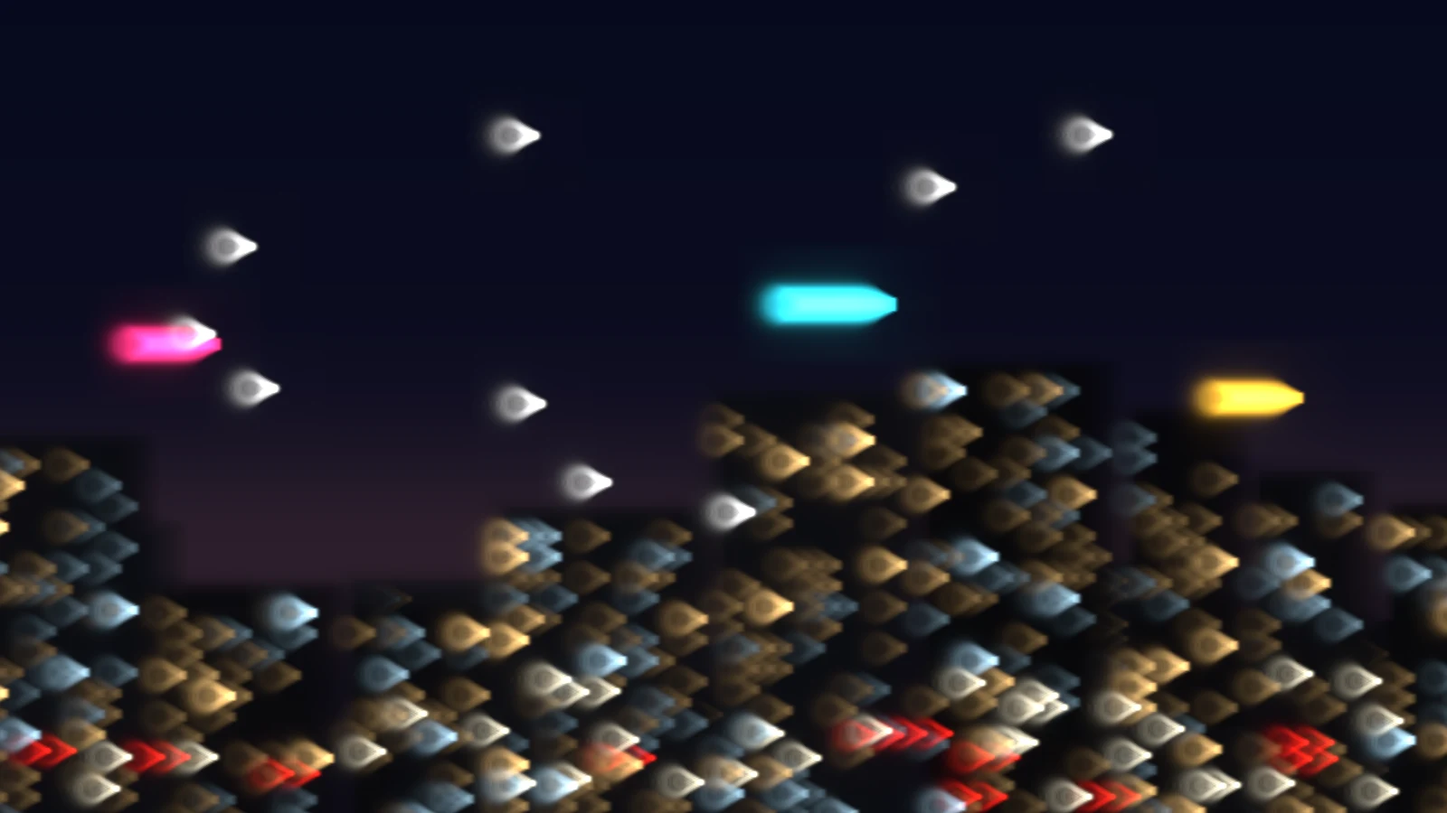
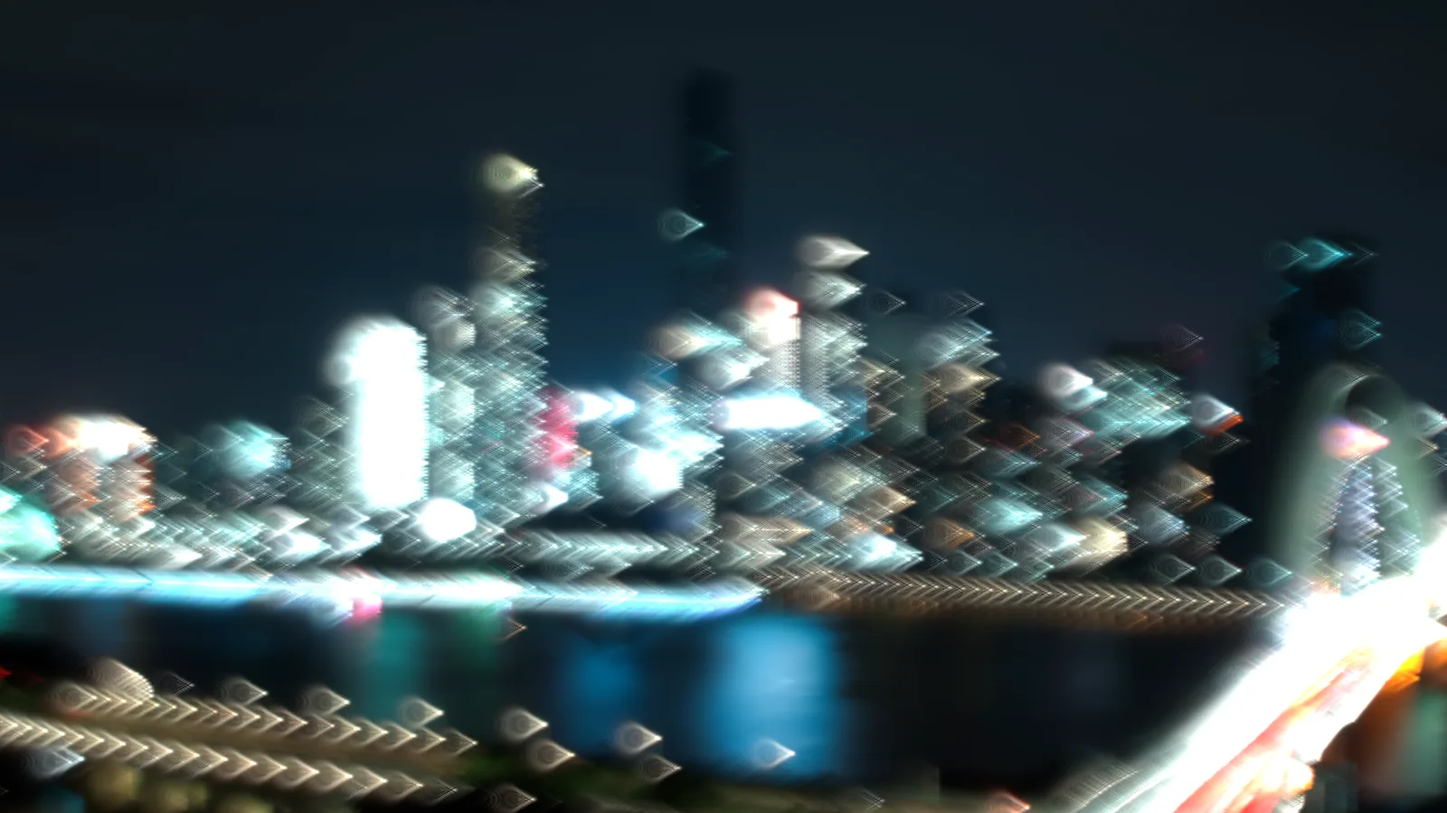
作例の素材を実写の写真に替える

diff --git a/faq.html b/faq.html
@@ -24,7 +24,7 @@
 <meta name="twitter:description" content="波動光学のよくある質問です。変化が小さい、光条が出ない、四角い縁が見える、重い、通信の有無、ライセンスなどに答えます。">
 <meta name="twitter:image" content="https://ymm4.routersys.com/YMM4-WaveOptics/WaveOptics.png">
 <meta name="twitter:image:alt" content="波動光学 for YMM4のサムネイル。キャラクターと、説明文が描かれている">
-<script type="application/ld+json">{"@context":"https://schema.org","@graph":[{"@type":"Person","@id":"https://ymm4.routersys.com/YMM4-WaveOptics/#author","name":"routersys","url":"https://github.com/routersys"},{"@type":"BreadcrumbList","itemListElement":[{"@type":"ListItem","position":1,"name":"ホーム","item":"https://ymm4.routersys.com/YMM4-WaveOptics/"},{"@type":"ListItem","position":2,"name":"よくある質問","item":"https://ymm4.routersys.com/YMM4-WaveOptics/faq.html"}]},{"@type":"FAQPage","mainEntity":[{"@type":"Question","name":"付けても映像がほとんど変わらないのはなぜですか。","acceptedAnswer":{"@type":"Answer","text":"デフォルトのF値8、画素ピッチ4μm、波長550nmでは、明るい円盤の半径が約1.3画素しかないためです。デフォーカスの絶対値かF値を上げるか、画素ピッチを下げると、にじみが大きくなります。目安は設定の選び方にあります。"}},{"@type":"Question","name":"光源から光条が出ないのはなぜですか。","acceptedAnswer":{"@type":"Answer","text":"光条が出るのは、開口形状を正多角形にしたときです。円形の開口では、光条の代わりに輪が出ます。さらに素材は8ビットで、光源の画素の値は1.0で頭打ちになるため、光条の光はそのままでは1階調にも届きません。線形光をオンにして、ハイライト強度を上げてください。F値16、画素ピッチ2μm、強さ30倍から試すと見えてきます。"}},{"@type":"Question","name":"ハイライトを上げると映像全体が明るくなるのはなぜですか。","acceptedAnswer":{"@type":"Answer","text":"ハイライトは、明るい画素の光を指定した倍率で足す処理で、出力の光の総量が増えるためです。利得を下げて明るさを合わせてください。"}},{"@type":"Question","name":"小さな明るい点が暗く細くなるのはなぜですか。","acceptedAnswer":{"@type":"Answer","text":"出力を8ビットに丸めるときに、広がった光の小さな値が0に切り捨てられるためです。ディザをオンにすると、画素の位置だけで決まる値を足してから丸めるので、光の総量が保たれます。"}},{"@type":"Question","name":"光源の周りに薄い四角い縁が見えるのはなぜですか。","acceptedAnswer":{"@type":"Answer","text":"にじみがカーネル半径の外まで広がり、四角いカーネルの縁で切り取られています。カーネル半径を上げてください。上限の63画素でも切れるときは、F値を下げるか画素ピッチを上げるか、デフォーカスや収差の値を小さくして、広がりを抑えます。"}},{"@type":"Question","name":"素材の外側にもにじみが広がるのはなぜですか。","acceptedAnswer":{"@type":"Answer","text":"畳み込みは不透明度にも掛かるので、素材の縁の外にも半透明のにじみが広がります。出力の範囲は、素材の範囲と畳み込む範囲を合わせたものです。適用量が0%のときは素材の範囲のままです。"}},{"@type":"Question","name":"エフェクトを付けても入力映像のまま表示されるのはなぜですか。","acceptedAnswer":{"@type":"Answer","text":"素材の長辺が上限を超えているか、中央遮蔽で開口がふさがっている可能性があります。計算領域の長辺は8192画素が上限で、素材の長辺の上限は、カーネル半径が16画素以下なら8160画素、63画素なら8064画素です。中央遮蔽で光の通る標本が1つも無くなる設定でも、入力映像を表示します。品質を上げると起きにくくなります。素材のすべての画素が透明なときも同じです。"}},{"@type":"Question","name":"動作が重いときはどうすればよいですか。","acceptedAnswer":{"@type":"Answer","text":"畳み込む範囲が大きいほど計算は重くなります。動画素材のように素材が毎フレーム変わる場合や、光学系、開口、波面収差をアニメーションさせる場合は、毎フレーム計算し直すのでさらに重くなります。カーネル半径を必要な分だけにする、品質を下げるなどで軽くできます。詳しくは設定の選び方の重いときにあります。"}},{"@type":"Question","name":"GPUで計算されているかを知る方法はありますか。","acceptedAnswer":{"@type":"Answer","text":"設定の画面に、どちらの経路で計算しているかを示す項目はありません。経路は自動で決まります。GPUを使えない環境、ソフトウェア アダプターを使っている環境、必要なGPUメモリがアダプターの容量の4分の1を超える場合、GPUの異常が起きた場合は、CPUで計算します。それ以外はGPUで計算します。"}},{"@type":"Question","name":"GPUとCPUで結果は同じですか。","acceptedAnswer":{"@type":"Answer","text":"1ビット単位では一致しません。差は、検証した範囲で最大2階調でした。2つの経路が8ビットに丸める分の、最大1階調を含みます。GPUの異常でCPUに切り替わったときも、同じ設定で結果がわずかに変わります。"}},{"@type":"Question","name":"対応しているOSと必要なものは何ですか。","acceptedAnswer":{"@type":"Answer","text":"Windows 10 バージョン2004（ビルド19041）以降、またはWindows 11（64bit）で、.NET 10.0を使います。YMM4は最新版を推奨します。GPUは、Direct3D 12と、Direct3D 11・12間の共有テクスチャおよび共有フェンスを使えるものを推奨します。使えない場合はCPUで計算します。"}},{"@type":"Question","name":"色収差や虹色のにじみは出ますか。","acceptedAnswer":{"@type":"Answer","text":"出ません。計算は単色光のフラウンホーファー回折に限り、赤、緑、青の成分と不透明度を同じ点像分布関数で畳み込みます。波長を変えても、映像の色は変わりません。"}},{"@type":"Question","name":"奥行きに応じたボケになりますか。","acceptedAnswer":{"@type":"Answer","text":"なりません。点像分布関数は画面のどこでも同じで、像の位置や素材の奥行きで変わるにじみは扱いません。"}},{"@type":"Question","name":"同じ設定なら、いつも同じ結果になりますか。","acceptedAnswer":{"@type":"Answer","text":"計算は決定論的で、時間も乱数も使いません。GPU、ドライバー、CPU、Windows、.NETの組が同じで、同じ経路で計算するなら、同じ素材と同じ設定から常に同じ結果になります。"}},{"@type":"Question","name":"AviUtl向けのEXO出力に対応していますか。","acceptedAnswer":{"@type":"Answer","text":"対応していません。"}},{"@type":"Question","name":"通信は行われますか。","acceptedAnswer":{"@type":"Answer","text":"行われます。エフェクトを最初に生成したときに、新しい正式版があるかを、YMM4の実行中に一度だけ確認します。想定していない例外が起きたときと、GPUの異常でCPUの経路に切り替えたときは、その内容を開発者へ自動で送信します。同意の確認はありません。映像の中身とプロジェクトの内容は送りません。送る内容は確かめ方のページに表で載せています。"}},{"@type":"Question","name":"ライセンスは何ですか。","acceptedAnswer":{"@type":"Answer","text":"MITライセンスで公開しています。条件はリポジトリのLICENSE.txtに書かれています。同梱しているComputeWeaveもMITライセンスです。"}},{"@type":"Question","name":"不具合はどこへ報告すればよいですか。","acceptedAnswer":{"@type":"Answer","text":"GitHubのIssuesへお願いします。想定していない例外とGPUの異常は、自動でも送信されます。"}}],"url":"https://ymm4.routersys.com/YMM4-WaveOptics/faq.html","inLanguage":"ja"}]}</script>
+<script type="application/ld+json">{"@context":"https://schema.org","@graph":[{"@type":"Person","@id":"https://ymm4.routersys.com/YMM4-WaveOptics/#author","name":"routersys","url":"https://github.com/routersys"},{"@type":"BreadcrumbList","itemListElement":[{"@type":"ListItem","position":1,"name":"ホーム","item":"https://ymm4.routersys.com/YMM4-WaveOptics/"},{"@type":"ListItem","position":2,"name":"よくある質問","item":"https://ymm4.routersys.com/YMM4-WaveOptics/faq.html"}]},{"@type":"FAQPage","mainEntity":[{"@type":"Question","name":"付けても映像がほとんど変わらないのはなぜですか。","acceptedAnswer":{"@type":"Answer","text":"デフォルトのF値8、画素ピッチ4μm、波長550nmでは、明るい円盤の半径が約1.3画素しかないためです。デフォーカスの絶対値かF値を上げるか、画素ピッチを下げると、にじみが大きくなります。目安は設定の選び方にあります。"}},{"@type":"Question","name":"光源から光条が出ないのはなぜですか。","acceptedAnswer":{"@type":"Answer","text":"光条が出るのは、開口形状を正多角形にしたときです。円形の開口では、光条の代わりに輪が出ます。さらに素材は8ビットで、光源の画素の値は1.0で頭打ちになるため、光条の光はそのままでは1階調にも届きません。線形光をオンにして、ハイライト強度を上げてください。F値16、画素ピッチ4μm、ハイライト閾値97%、ハイライト強度25倍から試すと見えてきます。"}},{"@type":"Question","name":"ハイライトを上げると映像全体が明るくなるのはなぜですか。","acceptedAnswer":{"@type":"Answer","text":"ハイライトは、明るい画素の光を指定した倍率で足す処理で、出力の光の総量が増えるためです。利得を下げて明るさを合わせてください。"}},{"@type":"Question","name":"小さな明るい点が暗く細くなるのはなぜですか。","acceptedAnswer":{"@type":"Answer","text":"出力を8ビットに丸めるときに、広がった光の小さな値が0に切り捨てられるためです。ディザをオンにすると、画素の位置だけで決まる値を足してから丸めるので、光の総量が保たれます。"}},{"@type":"Question","name":"光源の周りに薄い四角い縁が見えるのはなぜですか。","acceptedAnswer":{"@type":"Answer","text":"にじみがカーネル半径の外まで広がり、四角いカーネルの縁で切り取られています。カーネル半径を上げてください。上限の63画素でも切れるときは、F値を下げるか画素ピッチを上げるか、デフォーカスや収差の値を小さくして、広がりを抑えます。"}},{"@type":"Question","name":"素材の外側にもにじみが広がるのはなぜですか。","acceptedAnswer":{"@type":"Answer","text":"畳み込みは不透明度にも掛かるので、素材の縁の外にも半透明のにじみが広がります。出力の範囲は、素材の範囲と畳み込む範囲を合わせたものです。適用量が0%のときは素材の範囲のままです。"}},{"@type":"Question","name":"エフェクトを付けても入力映像のまま表示されるのはなぜですか。","acceptedAnswer":{"@type":"Answer","text":"素材の長辺が上限を超えているか、中央遮蔽で開口がふさがっている可能性があります。計算領域の長辺は8192画素が上限で、素材の長辺の上限は、カーネル半径が16画素以下なら8160画素、63画素なら8064画素です。中央遮蔽で光の通る標本が1つも無くなる設定でも、入力映像を表示します。品質を上げると起きにくくなります。素材のすべての画素が透明なときも同じです。"}},{"@type":"Question","name":"動作が重いときはどうすればよいですか。","acceptedAnswer":{"@type":"Answer","text":"畳み込む範囲が大きいほど計算は重くなります。動画素材のように素材が毎フレーム変わる場合や、光学系、開口、波面収差をアニメーションさせる場合は、毎フレーム計算し直すのでさらに重くなります。カーネル半径を必要な分だけにする、品質を下げるなどで軽くできます。詳しくは設定の選び方の重いときにあります。"}},{"@type":"Question","name":"GPUで計算されているかを知る方法はありますか。","acceptedAnswer":{"@type":"Answer","text":"設定の画面に、どちらの経路で計算しているかを示す項目はありません。経路は自動で決まります。GPUを使えない環境、ソフトウェア アダプターを使っている環境、必要なGPUメモリがアダプターの容量の4分の1を超える場合、GPUの異常が起きた場合は、CPUで計算します。それ以外はGPUで計算します。"}},{"@type":"Question","name":"GPUとCPUで結果は同じですか。","acceptedAnswer":{"@type":"Answer","text":"1ビット単位では一致しません。差は、検証した範囲で最大2階調でした。2つの経路が8ビットに丸める分の、最大1階調を含みます。GPUの異常でCPUに切り替わったときも、同じ設定で結果がわずかに変わります。"}},{"@type":"Question","name":"対応しているOSと必要なものは何ですか。","acceptedAnswer":{"@type":"Answer","text":"Windows 10 バージョン2004（ビルド19041）以降、またはWindows 11（64bit）で、.NET 10.0を使います。YMM4は最新版を推奨します。GPUは、Direct3D 12と、Direct3D 11・12間の共有テクスチャおよび共有フェンスを使えるものを推奨します。使えない場合はCPUで計算します。"}},{"@type":"Question","name":"色収差や虹色のにじみは出ますか。","acceptedAnswer":{"@type":"Answer","text":"出ません。計算は単色光のフラウンホーファー回折に限り、赤、緑、青の成分と不透明度を同じ点像分布関数で畳み込みます。波長を変えても、映像の色は変わりません。"}},{"@type":"Question","name":"奥行きに応じたボケになりますか。","acceptedAnswer":{"@type":"Answer","text":"なりません。点像分布関数は画面のどこでも同じで、像の位置や素材の奥行きで変わるにじみは扱いません。"}},{"@type":"Question","name":"同じ設定なら、いつも同じ結果になりますか。","acceptedAnswer":{"@type":"Answer","text":"計算は決定論的で、時間も乱数も使いません。GPU、ドライバー、CPU、Windows、.NETの組が同じで、同じ経路で計算するなら、同じ素材と同じ設定から常に同じ結果になります。"}},{"@type":"Question","name":"AviUtl向けのEXO出力に対応していますか。","acceptedAnswer":{"@type":"Answer","text":"対応していません。"}},{"@type":"Question","name":"通信は行われますか。","acceptedAnswer":{"@type":"Answer","text":"行われます。エフェクトを最初に生成したときに、新しい正式版があるかを、YMM4の実行中に一度だけ確認します。想定していない例外が起きたときと、GPUの異常でCPUの経路に切り替えたときは、その内容を開発者へ自動で送信します。同意の確認はありません。映像の中身とプロジェクトの内容は送りません。送る内容は確かめ方のページに表で載せています。"}},{"@type":"Question","name":"ライセンスは何ですか。","acceptedAnswer":{"@type":"Answer","text":"MITライセンスで公開しています。条件はリポジトリのLICENSE.txtに書かれています。同梱しているComputeWeaveもMITライセンスです。"}},{"@type":"Question","name":"不具合はどこへ報告すればよいですか。","acceptedAnswer":{"@type":"Answer","text":"GitHubのIssuesへお願いします。想定していない例外とGPUの異常は、自動でも送信されます。"}}],"url":"https://ymm4.routersys.com/YMM4-WaveOptics/faq.html","inLanguage":"ja"}]}</script>
 <style>:root{color-scheme:light dark;--kinari:#fbfaf5;--shironeri:#f3f3f2;--haijiro:#e9e4d4;--shiraai:#c1e4e9;--karasuba:#180614;--sumi:#595857;--ai:#165e83;--konjou:#192f60;--kodaimurasaki:#895b8a;--ginnezumi:#afafb0;--yamabuki:#f8b500;--nureba:#000b00;--tetsuonando:#455765;--byakugun:#83ccd2;--fuji:#bbbcde;--outer:light-dark(var(--konjou),var(--nureba));--frame:light-dark(var(--ai),var(--nureba));--frametext:var(--kinari);--framelink:light-dark(var(--shiraai),var(--byakugun));--edge:light-dark(var(--ai),var(--sumi));--panel:light-dark(var(--kinari),var(--nureba));--text:light-dark(var(--karasuba),var(--kinari));--muted:light-dark(var(--sumi),var(--ginnezumi));--line:light-dark(var(--ginnezumi),var(--sumi));--bar:light-dark(var(--shironeri),var(--tetsuonando));--bartext:light-dark(var(--konjou),var(--kinari));--head:light-dark(var(--haijiro),var(--tetsuonando));--link:light-dark(var(--ai),var(--byakugun));--visited:light-dark(var(--kodaimurasaki),var(--fuji))}*{box-sizing:border-box}body{margin:0;background:var(--outer);color:var(--text);font:16px/1.85 Verdana,'Hiragino Kaku Gothic ProN','Hiragino Sans',Meiryo,'Noto Sans JP',sans-serif}a{color:var(--link)}a:visited{color:var(--visited)}.wrap{max-width:76rem;margin:0 auto;background:var(--frame);display:grid;grid-template-columns:14rem minmax(0,1fr);align-items:start}header{padding:1.2rem 1rem;color:var(--frametext)}.site{margin:0 0 1rem;font:400 1.3rem/1.5 Georgia,'Hiragino Mincho ProN','Yu Mincho',YuMincho,'Noto Serif JP',serif}.site a,.site a:visited{color:var(--frametext);text-decoration:none}header ul{list-style:none;margin:0;padding:0}header li{padding:.15rem 0}header a,header a:visited{color:var(--framelink)}header b{color:var(--frametext)}.dl{margin:1.2rem 0 0}main{min-width:0;background:var(--panel);border:1px solid var(--edge);padding:1.2rem 2rem 2rem}h1,h2,h3{font-family:Georgia,'Hiragino Mincho ProN','Yu Mincho',YuMincho,'Noto Serif JP',serif;background:var(--bar);color:var(--bartext);border-bottom:1px solid var(--line);margin:1.8rem -2rem .8rem;padding:.2rem 2rem;line-height:1.5}h1{margin-top:0;font-size:1.9rem}h2{font-size:1.5rem}h3{font-size:1.2rem}p,ul,ol{margin:.8rem 0}img{max-width:100%;height:auto}figure{margin:1.2rem 0}figcaption{font-size:.9em;color:var(--muted)}table{border-collapse:collapse}caption{padding-bottom:.3rem;text-align:left;font-size:.9em;color:var(--muted)}th,td{border:1px solid var(--line);padding:.3rem .7rem;text-align:left;vertical-align:top}th{background:var(--head)}.t{overflow-x:auto;margin:1rem 0}.n{text-align:right}code{background:var(--bar);font-family:Consolas,'Courier New',monospace;font-size:.95em}.g{display:flex;flex-wrap:wrap;justify-content:center;gap:1rem;margin:1.2rem 0}.g figure{margin:0;flex:1 1 13rem;max-width:24rem;text-align:center}.g figure:has(.p){max-width:17.5rem}.g img{width:100%}blockquote{margin:1rem 0;padding:.4rem 1rem;background:var(--bar);border:1px solid var(--line)}.p{image-rendering:pixelated}footer{grid-column:2;padding:.8rem 1rem 1.2rem;font-size:.85em;color:var(--frametext)}footer p{margin:.2rem 0}footer a,footer a:visited{color:var(--framelink)}.c.j{position:relative;display:grid;grid-template-columns:minmax(0,1fr);margin:1.2rem 0;overflow:hidden}.c.j>*{grid-area:1/1;margin:0}.c.j img{width:100%}.c.j .b{clip-path:inset(0 calc(100% - var(--p,50%)) 0 0);z-index:1}.c.j figcaption{position:absolute;top:.4em;padding:0 .5em;background:var(--karasuba);color:var(--kinari);opacity:.85;font-size:.8em}.c.j .b figcaption{left:.4em}.c.j .a figcaption{right:.4em}.c.j::after{content:'';grid-area:1/1;z-index:1;justify-self:start;width:2px;margin-left:calc(var(--p,50%) - 1px);background:var(--yamabuki);pointer-events:none}.c.j input{z-index:2;width:100%;height:100%;opacity:0;cursor:ew-resize}@media(min-width:52rem){caption{white-space:nowrap}main p,main li{text-align:justify}}@media(max-width:52rem){.wrap{display:block}header{padding:.8rem 1rem}header li{display:inline-block;margin-right:1rem}.dl{margin-top:.5rem}.g figure{flex-basis:9.5rem}.g figure:has(.p){flex-basis:15rem}.t table:has(th:nth-child(3)){min-width:28rem}.t table:has(th:nth-child(4)){min-width:40rem}th,td{padding:.25rem .5rem}main{border-left:0;border-right:0;padding:1rem}h1,h2,h3{margin-left:-1rem;margin-right:-1rem;padding-left:1rem;padding-right:1rem}h1{font-size:1.5rem}h2{font-size:1.25rem}h3{font-size:1.1rem}footer{padding:.8rem 1rem 1.2rem}}</style>
 </head>
 <body>
@@ -40,7 +40,7 @@
 <h3>付けても映像がほとんど変わらないのはなぜですか。</h3>
 <p>デフォルトのF値8、画素ピッチ4μm、波長550nmでは、明るい円盤の半径が約1.3画素しかないためです。デフォーカスの絶対値かF値を上げるか、画素ピッチを下げると、にじみが大きくなります。目安は<a href="guide.html#size">設定の選び方</a>にあります。</p>
 <h3>光源から光条が出ないのはなぜですか。</h3>
-<p>光条が出るのは、開口形状を正多角形にしたときです。円形の開口では、光条の代わりに輪が出ます。さらに素材は8ビットで、光源の画素の値は1.0で頭打ちになるため、光条の光はそのままでは1階調にも届きません。線形光をオンにして、ハイライト強度を上げてください。F値16、画素ピッチ2μm、強さ30倍から試すと見えてきます。</p>
+<p>光条が出るのは、開口形状を正多角形にしたときです。円形の開口では、光条の代わりに輪が出ます。さらに素材は8ビットで、光源の画素の値は1.0で頭打ちになるため、光条の光はそのままでは1階調にも届きません。線形光をオンにして、ハイライト強度を上げてください。F値16、画素ピッチ4μm、ハイライト閾値97%、ハイライト強度25倍から試すと見えてきます。</p>
 <h3>ハイライトを上げると映像全体が明るくなるのはなぜですか。</h3>
 <p>ハイライトは、明るい画素の光を指定した倍率で足す処理で、出力の光の総量が増えるためです。利得を下げて明るさを合わせてください。</p>
 <h3>小さな明るい点が暗く細くなるのはなぜですか。</h3>

diff --git a/recipes.html b/recipes.html
@@ -37,16 +37,16 @@
 <main>
 <h1>作例と設定値</h1>
 
-<p>同じ夜景の素材に、表の項目だけを変えて適用した5つの作例です。表にない項目はデフォルトのままです。画像の境目を左右に動かすと、素材と見比べられます。</p>
+<p>同じ夜の写真に、表の項目だけを変えて適用した5つの作例です。表にない項目はデフォルトのままです。画像の境目を左右に動かすと、素材と見比べられます。</p>
 <p>デフォルトの値は、適用量100%、利得100%、線形光オフ、ハイライト閾値95%、ハイライト強度1倍、ディザオフ、波長550nm、F値8、画素ピッチ4μm、カーネル半径15画素、品質標準、開口形状円形、羽根枚数6、開口回転0°、中央遮蔽0%、波面収差の6項目はすべて0 wavesです。</p>
-<blockquote>画像は、1920×1080の合成した夜景に、波動光学のCPUの経路の計算をそのまま呼び出して適用し、中央の1600×900を切り出したものです。YMM4の画面ではありません。GPUの経路とは1ビット単位では一致せず、差は測った範囲で最大2階調でした。にじみの大きさは画素を単位に決まるので、素材の解像度が違うと見え方も変わります。</blockquote>
+<blockquote>画像は、夜の川沿いの写真（出典は<a href="trust.html#images">確かめ方のページ</a>）を1920×1080に切り出し、波動光学のCPUの経路の計算をそのまま呼び出して適用し、中央の1600×900を載せたものです。YMM4の画面ではありません。GPUの経路とは1ビット単位では一致せず、差は測った範囲で最大2階調でした。にじみの大きさは画素を単位に決まるので、素材の解像度が違うと見え方も変わります。</blockquote>
 <p>目次</p><ul><li><a href="#spikes">1. 光源から星形の光条を出す</a></li><li><a href="#bokeh">2. 多角形の玉ボケにする</a></li><li><a href="#coma">3. 片側へ尾を引かせる</a></li><li><a href="#rings">4. 同心円の輪が入った玉ボケ</a></li><li><a href="#x">5. 光条をX字にする</a></li></ul>
 
 <h2 id="spikes">1. 光源から星形の光条を出す</h2>
 <p>羽根枚数6の開口で、光源から6本の光条を出します。</p>
-<div class="c" data-b="素材" data-a="適用後"><figure class="b"><img src="assets/img/night-original.webp" alt="元の夜景。ビルの窓の明かりと、空に浮かぶ白い点、3本のネオン管が、くっきり写っている" width="1600" height="900"><figcaption>素材</figcaption></figure><figure class="a"><img src="assets/img/recipe-spikes.webp" alt="適用後の夜景。白い点や窓の明かりから6本の細い筋が伸び、ネオン管の周りに蝶ネクタイの形のにじみが出ている" width="1600" height="900"><figcaption>適用後</figcaption></figure></div>
-<div class="t"><table><tr><th>項目</th><th>値</th></tr><tr><td>F値</td><td>16</td></tr><tr><td>画素ピッチ</td><td>2μm</td></tr><tr><td>カーネル半径</td><td>63画素</td></tr><tr><td>開口形状</td><td>正多角形</td></tr><tr><td>線形光</td><td>オン</td></tr><tr><td>ハイライト閾値</td><td>90%</td></tr><tr><td>ハイライト強度</td><td>30倍</td></tr></table></div>
-<p>光条が出るのは、開口形状を正多角形にしているためです。羽根枚数はデフォルトの6枚で、偶数なので光条は6本になります。光条の光は弱いので、線形光をオンにして、ハイライト強度で光源を持ち上げています。持ち上がるのはしきい値の90%を超える画素だけで、暗い部分の見え方は変わりません。ネオン管のような細長い光源の周りには、蝶ネクタイの形のにじみが出ます。</p>
+<div class="c" data-b="素材" data-a="適用後"><figure class="b"><img src="assets/img/night-original.webp" alt="元の写真。夜の川沿いに高層ビルが並び、手前の道路に街灯が点々と続いている。橋の上には、車の光跡が赤と白の帯になっている" width="1600" height="900"><figcaption>素材</figcaption></figure><figure class="a"><img src="assets/img/recipe-spikes.webp" alt="適用後の写真。街灯や窓の明かりから、6本の細い筋が星形に伸びている" width="1600" height="900"><figcaption>適用後</figcaption></figure></div>
+<div class="t"><table><tr><th>項目</th><th>値</th></tr><tr><td>F値</td><td>16</td></tr><tr><td>画素ピッチ</td><td>4μm</td></tr><tr><td>カーネル半径</td><td>63画素</td></tr><tr><td>開口形状</td><td>正多角形</td></tr><tr><td>線形光</td><td>オン</td></tr><tr><td>ハイライト閾値</td><td>97%</td></tr><tr><td>ハイライト強度</td><td>25倍</td></tr></table></div>
+<p>光条が出るのは、開口形状を正多角形にしているためです。羽根枚数はデフォルトの6枚で、偶数なので光条は6本になります。光条の光は弱いので、線形光をオンにして、ハイライト強度で光源を持ち上げています。持ち上がるのはしきい値の97%を超える画素だけで、暗い部分の見え方は変わりません。窓の明かりが並ぶ部分では、光条が重なって見えます。</p>
 <h3>調整</h3>
 <ul><li>光条を太く長くするには、F値を上げるか画素ピッチを下げます。広がった分だけ光が薄まるので、見えにくくなったらハイライト強度を上げます。</li><li>光条の本数は羽根枚数で変えます。偶数なら枚数と同じ本数で、奇数なら2倍です。</li><li>光条の向きは開口回転で変えます。開口回転はアニメーションに対応しているので、光条をゆっくり回せます。</li><li>全体が明るくなりすぎたら、利得を下げます。ハイライトは光を足すので、出力の光の総量が増えます。</li></ul>
 
@@ -62,26 +62,26 @@
 
 <h2 id="coma">3. 片側へ尾を引かせる</h2>
 <p>光源が、片側へ尾を引く彗星のような形になります。</p>
-<div class="c" data-b="素材" data-a="適用後"><figure class="b"><img src="assets/img/night-original.webp" alt="元の夜景。ビルの窓の明かりと、空に浮かぶ白い点、3本のネオン管が、くっきり写っている" width="1600" height="900" loading="lazy"><figcaption>素材</figcaption></figure><figure class="a"><img src="assets/img/recipe-coma.webp" alt="適用後の夜景。光源の芯が右に寄り、左へ扇のように広がって、矢じりのような形になっている" width="1600" height="900" loading="lazy"><figcaption>適用後</figcaption></figure></div>
+<div class="c" data-b="素材" data-a="適用後"><figure class="b"><img src="assets/img/night-original.webp" alt="元の写真。夜の川沿いに高層ビルが並び、手前の道路に街灯が点々と続いている。橋の上には、車の光跡が赤と白の帯になっている" width="1600" height="900" loading="lazy"><figcaption>素材</figcaption></figure><figure class="a"><img src="assets/img/recipe-coma.webp" alt="適用後の写真。街灯の列が、芯を右に寄せて左へ尾を引く、矢じりのような形の連なりになっている" width="1600" height="900" loading="lazy"><figcaption>適用後</figcaption></figure></div>
 <div class="t"><table><tr><th>項目</th><th>値</th></tr><tr><td>水平コマ収差</td><td>1 waves</td></tr><tr><td>カーネル半径</td><td>63画素</td></tr><tr><td>品質</td><td>高精度</td></tr><tr><td>線形光</td><td>オン</td></tr><tr><td>ハイライト閾値</td><td>90%</td></tr><tr><td>ハイライト強度</td><td>12倍</td></tr></table></div>
-<p>水平コマ収差を正の値にすると、光の芯が右に残り、左へ扇形に広がります。広がった部分に重なるのは、弧の模様です。窓の明かりが並ぶ部分では、矢じりのような形が重なって見えます。</p>
+<p>水平コマ収差を正の値にすると、光の芯が右に残り、左へ扇形に広がります。広がった部分に重なるのは、弧の模様です。街灯が並ぶ部分では、矢じりのような形が連なって見えます。</p>
 <p>この設定の広がりは、光の90%が収まる半径が約29画素、99%が収まる半径が約45画素で、カーネル半径63画素に収まっています。</p>
 <h3>調整</h3>
 <ul><li>円形の開口では、符号を反対にすると尾の向きが左右逆になります。計算した広がりを左右反転すると、符号を反対にした広がりと一致することを確かめています。</li><li>垂直コマ収差にすると尾が縦に伸び、水平と垂直を同時に入れると斜めに伸びます。</li><li>広がりが大きすぎるときは、F値を下げるか、画素ピッチを上げるか、コマ収差の値を小さくします。</li></ul>
 
 <h2 id="rings">4. 同心円の輪が入った玉ボケ</h2>
 <p>光源が、同心円の輪の入った玉になります。</p>
-<div class="c" data-b="素材" data-a="適用後"><figure class="b"><img src="assets/img/night-original.webp" alt="元の夜景。ビルの窓の明かりと、空に浮かぶ白い点、3本のネオン管が、くっきり写っている" width="1600" height="900" loading="lazy"><figcaption>素材</figcaption></figure><figure class="a"><img src="assets/img/recipe-rings.webp" alt="適用後の夜景。光源が、中心の点を囲む同心円の輪が入った玉ボケになり、ネオン管は丸みのある帯に広がっている" width="1600" height="900" loading="lazy"><figcaption>適用後</figcaption></figure></div>
+<div class="c" data-b="素材" data-a="適用後"><figure class="b"><img src="assets/img/night-original.webp" alt="元の写真。夜の川沿いに高層ビルが並び、手前の道路に街灯が点々と続いている。橋の上には、車の光跡が赤と白の帯になっている" width="1600" height="900" loading="lazy"><figcaption>素材</figcaption></figure><figure class="a"><img src="assets/img/recipe-rings.webp" alt="適用後の写真。街灯が、中心の点を囲む同心円の輪が入った玉ボケになっている" width="1600" height="900" loading="lazy"><figcaption>適用後</figcaption></figure></div>
 <div class="t"><table><tr><th>項目</th><th>値</th></tr><tr><td>F値</td><td>10</td></tr><tr><td>カーネル半径</td><td>63画素</td></tr><tr><td>品質</td><td>高精度</td></tr><tr><td>球面収差</td><td>-1 waves</td></tr><tr><td>デフォーカス</td><td>0.5 waves</td></tr><tr><td>線形光</td><td>オン</td></tr><tr><td>ハイライト閾値</td><td>92%</td></tr><tr><td>ハイライト強度</td><td>8倍</td></tr></table></div>
 <p>球面収差を入れてデフォーカスすると、玉の中に何本かの輪が現れ、中心には小さな明るい点が残ります。</p>
-<p>この組み合わせは広がりが大きくなりやすいので、F値を10に下げて、輪がカーネル半径63画素の中に収まるようにしています。収まらないと、玉の周りに薄い四角い縁が出ます。F値を16にした試作では、この縁が見えました。</p>
+<p>この組み合わせは広がりが大きくなりやすいので、F値を10に下げて、輪がカーネル半径63画素の中に収まるようにしています。収まらないと、玉の周りに薄い四角い縁が出ます。</p>
 <h3>調整</h3>
 <ul><li>輪の数や間隔は、球面収差とデフォーカスの値で変わります。値を動かして形を探してください。</li><li>四角い縁が見えたら、F値を下げるか画素ピッチを上げて、広がりを小さくします。</li><li>球面収差の絶対値を大きくするときは、品質を上げてください。この設定のカーネルは、格子が2048×2048のときとの差が、標準の品質では0.24、高精度では0.03です。</li></ul>
 
 <h2 id="x">5. 光条をX字にする</h2>
 <p>羽根枚数を4枚にして開口を45°回すと、光条が斜めのX字になります。</p>
-<div class="c" data-b="素材" data-a="適用後"><figure class="b"><img src="assets/img/night-original.webp" alt="元の夜景。ビルの窓の明かりと、空に浮かぶ白い点、3本のネオン管が、くっきり写っている" width="1600" height="900" loading="lazy"><figcaption>素材</figcaption></figure><figure class="a"><img src="assets/img/recipe-x.webp" alt="適用後の夜景。白い点や窓の明かりから4本の筋がX字に伸び、ネオン管の周りにX字のにじみが出ている" width="1600" height="900" loading="lazy"><figcaption>適用後</figcaption></figure></div>
-<div class="t"><table><tr><th>項目</th><th>値</th></tr><tr><td>F値</td><td>16</td></tr><tr><td>画素ピッチ</td><td>2μm</td></tr><tr><td>カーネル半径</td><td>63画素</td></tr><tr><td>開口形状</td><td>正多角形</td></tr><tr><td>羽根枚数</td><td>4</td></tr><tr><td>開口回転</td><td>45°</td></tr><tr><td>線形光</td><td>オン</td></tr><tr><td>ハイライト閾値</td><td>90%</td></tr><tr><td>ハイライト強度</td><td>30倍</td></tr></table></div>
+<div class="c" data-b="素材" data-a="適用後"><figure class="b"><img src="assets/img/night-original.webp" alt="元の写真。夜の川沿いに高層ビルが並び、手前の道路に街灯が点々と続いている。橋の上には、車の光跡が赤と白の帯になっている" width="1600" height="900" loading="lazy"><figcaption>素材</figcaption></figure><figure class="a"><img src="assets/img/recipe-x.webp" alt="適用後の写真。街灯や窓の明かりから、4本の筋がX字に伸びている" width="1600" height="900" loading="lazy"><figcaption>適用後</figcaption></figure></div>
+<div class="t"><table><tr><th>項目</th><th>値</th></tr><tr><td>F値</td><td>16</td></tr><tr><td>画素ピッチ</td><td>4μm</td></tr><tr><td>カーネル半径</td><td>63画素</td></tr><tr><td>開口形状</td><td>正多角形</td></tr><tr><td>羽根枚数</td><td>4</td></tr><tr><td>開口回転</td><td>45°</td></tr><tr><td>線形光</td><td>オン</td></tr><tr><td>ハイライト閾値</td><td>97%</td></tr><tr><td>ハイライト強度</td><td>25倍</td></tr></table></div>
 <p>羽根枚数が4枚の開口は正方形で、光条は4本です。開口回転が0°なら上下左右の十字になり、45°回すと斜めのX字になります。</p>
 <h3>調整</h3>
 <ul><li>開口回転はアニメーションに対応しています。0°から90°まで動かすと、十字とX字を行き来しながら光条が回ります。</li><li>光条の濃さは、ハイライト強度としきい値で変えます。</li></ul>

diff --git a/how-it-works.html b/how-it-works.html
@@ -50,7 +50,7 @@
 
 <h3 id="aperture">開口の形</h3>
 <p>開口が円形なら広がりは輪になりますが、正多角形にすると、辺と垂直な向きに筋が伸びます。この筋を光条と呼びます。</p>
-<table class="g"><tr><td><figure><img src="assets/img/psf-circle.webp" alt="円形の開口。筋は無く、同心円の輪だけが出ている" width="216" height="216" loading="lazy"><figcaption>円形。光条は出ません。</figcaption></figure></td><td><figure><img src="assets/img/psf-hexagon.webp" alt="正六角形の開口。0度、60度、120度の向きに計6本の筋が伸びている" width="216" height="216" loading="lazy"><figcaption>正六角形（羽根枚数6、開口回転0°）。光条は6本です。</figcaption></figure></td><td><figure><img src="assets/img/psf-heptagon.webp" alt="正七角形の開口を10度回した広がり。14本の細い筋が放射状に伸びている" width="216" height="216" loading="lazy"><figcaption>正七角形（羽根枚数7、開口回転10°）。光条は14本です。</figcaption></figure></td></tr></table>
+<div class="g"><figure><img src="assets/img/psf-circle.webp" alt="円形の開口。筋は無く、同心円の輪だけが出ている" width="216" height="216" loading="lazy"><figcaption>円形。光条は出ません。</figcaption></figure><figure><img src="assets/img/psf-hexagon.webp" alt="正六角形の開口。0度、60度、120度の向きに計6本の筋が伸びている" width="216" height="216" loading="lazy"><figcaption>正六角形（羽根枚数6、開口回転0°）。光条は6本です。</figcaption></figure><figure><img src="assets/img/psf-heptagon.webp" alt="正七角形の開口を10度回した広がり。14本の細い筋が放射状に伸びている" width="216" height="216" loading="lazy"><figcaption>正七角形（羽根枚数7、開口回転10°）。光条は14本です。</figcaption></figure></div>
 <p>3枚とも、F値16、画素ピッチ2μm、カーネル半径63画素です。線形光をオンにして、ハイライト閾値を90%、強さを300倍にして持ち上げています。</p>
 <p>光条の本数は、羽根枚数が偶数なら枚数と同じで、奇数なら2倍です。偶数の正多角形には向かい合う平行な辺があり、2つの辺の光条が同じ向きに重なります。奇数の正多角形には平行な辺が無いので、辺ごとに表と裏の2本ができます。点像分布関数を計算して数えた結果が次の表です。</p>
 <div class="t"><table><caption>羽根枚数と光条の本数（開口回転0°、F値16、画素ピッチ2μm）</caption><tr><th class="n">羽根枚数</th><th class="n">光条の本数</th></tr><tr><td class="n">3</td><td class="n">6</td></tr><tr><td class="n">4</td><td class="n">4</td></tr><tr><td class="n">5</td><td class="n">10</td></tr><tr><td class="n">6</td><td class="n">6</td></tr><tr><td class="n">7</td><td class="n">14</td></tr><tr><td class="n">8</td><td class="n">8</td></tr></table></div>
@@ -62,7 +62,7 @@
 
 <h3 id="aberration">波面のずれ</h3>
 <p>光の波の山をつないだ面を波面と呼び、波面が理想の形からずれることを波面収差と呼びます。本プラグインでは、ゼルニケ多項式の6つの項で波面のずれを指定します。単位のwavesは、波長を1とした量です。</p>
-<table class="g"><tr><td><figure><img src="assets/img/psf-defocus.webp" alt="デフォーカス1 wavesの広がり。輪の入った大きな円盤の中心に、明るい芯がある" width="216" height="216" loading="lazy"><figcaption>デフォーカス1 waves</figcaption></figure></td><td><figure><img src="assets/img/psf-astigmatism.webp" alt="縦横非点収差1 wavesの広がり。ひし形の中に格子状の模様があり、縦横に細い筋が伸びている" width="216" height="216" loading="lazy"><figcaption>縦横非点収差1 waves</figcaption></figure></td><td><figure><img src="assets/img/psf-coma.webp" alt="水平コマ収差0.5 wavesの広がり。明るい芯が右にあり、左へ扇のように弧が広がっている" width="216" height="216" loading="lazy"><figcaption>水平コマ収差0.5 waves</figcaption></figure></td></tr></table>
+<div class="g"><figure><img src="assets/img/psf-defocus.webp" alt="デフォーカス1 wavesの広がり。輪の入った大きな円盤の中心に、明るい芯がある" width="216" height="216" loading="lazy"><figcaption>デフォーカス1 waves</figcaption></figure><figure><img src="assets/img/psf-astigmatism.webp" alt="縦横非点収差1 wavesの広がり。ひし形の中に格子状の模様があり、縦横に細い筋が伸びている" width="216" height="216" loading="lazy"><figcaption>縦横非点収差1 waves</figcaption></figure><figure><img src="assets/img/psf-coma.webp" alt="水平コマ収差0.5 wavesの広がり。明るい芯が右にあり、左へ扇のように弧が広がっている" width="216" height="216" loading="lazy"><figcaption>水平コマ収差0.5 waves</figcaption></figure></div>
 <p>3枚とも、F値8、画素ピッチ2μm、カーネル半径63画素で、品質は標準です。ハイライト閾値は90%、強さは100倍です。128×128画素の範囲を滑らかに拡大しています。</p>
 <div class="t"><table><tr><th>項目</th><th>見え方</th></tr><tr><td>デフォーカス</td><td>輪の入った円盤に広がります。大きくすると、にじみが開口の形になって玉ボケになります。</td></tr><tr><td>縦横非点収差</td><td>水平と垂直で焦点がずれます。上の画像では、縦と横に筋の出たひし形になっています。</td></tr><tr><td>斜め非点収差</td><td>縦横非点収差を45度傾けたものです。</td></tr><tr><td>水平コマ収差</td><td>光が水平方向の片側へ尾を引きます。符号を反対にすると、尾の向きが左右逆になります。</td></tr><tr><td>垂直コマ収差</td><td>水平コマ収差を垂直にしたものです。</td></tr><tr><td>球面収差</td><td>開口の中心と縁で焦点の位置がずれます。ピントの芯の周りににじみが広がり、デフォーカスと組み合わせると同心円の輪が出ます。</td></tr></table></div>
 <p>デフォルトの光学系でデフォーカスを1 wavesにすると、にじみは中心から約15画素まで広がります。広がりの大きさの見積もり方は<a href="guide.html#size">設定の選び方</a>にあります。</p>
@@ -82,13 +82,13 @@
 <h2 id="highlight">5. ハイライト</h2>
 <p>素材は8ビットなので、光源の画素の値は1.0で頭打ちです。実際の光源はもっと明るいはずですが、その明るさは素材に残っていません。光条のように中心よりずっと小さい光は、そのままでは出力の1階調にも届きません。</p>
 <p>ハイライト強度を上げると、しきい値を超えた明るい画素を持ち上げてから畳み込むので、そうした光が見えるようになります。光源の本当の明るさを復元するのではなく、指定した倍率で光を足す処理です。足した分だけ全体が明るくなるので、利得を下げて合わせます。</p>
-<div class="c" data-b="ハイライトなし" data-a="ハイライトあり"><figure class="b"><img src="assets/img/sun-plain.webp" alt="ハイライトを使わない結果。空に太陽が丸い点で写っているが、筋は出ていない。地平線の近くの小さな光はほとんど見えない" width="1600" height="900" loading="lazy"><figcaption>ハイライトなし</figcaption></figure><figure class="a"><img src="assets/img/sun-highlight.webp" alt="ハイライトを使った結果。太陽から6本の筋が伸び、地平線の近くの小さな光にも筋が出ている" width="1600" height="900" loading="lazy"><figcaption>ハイライトあり</figcaption></figure></div>
-<p>どちらもF値16、画素ピッチ2μm、カーネル半径63画素、6枚羽根の正多角形です。ハイライトありは、線形光をオン、しきい値を90%、強さを40倍にしています。素材は1920×1080の合成した空で、どちらも中央の1600×900です。</p>
+<div class="c" data-b="ハイライトなし" data-a="ハイライトあり"><figure class="b"><img src="assets/img/highlight-plain.webp" alt="ハイライトを使わない結果。街灯は小さな点のままで、光条は出ていない" width="1600" height="900" loading="lazy"><figcaption>ハイライトなし</figcaption></figure><figure class="a"><img src="assets/img/highlight-boost.webp" alt="ハイライトを使った結果。街灯や窓の明かりから、6本の光条が伸びている" width="1600" height="900" loading="lazy"><figcaption>ハイライトあり</figcaption></figure></div>
+<p>どちらもF値16、画素ピッチ4μm、カーネル半径63画素、6枚羽根の正多角形です。ハイライトありは、線形光をオン、ハイライト閾値を97%、ハイライト強度を25倍にしています。素材は、夜の川沿いの写真を切り出した1920×1080の画像で、どちらも中央の1600×900です。写真の出典は<a href="trust.html#images">確かめ方のページ</a>にあります。</p>
 
 <h2 id="dither">6. ディザ</h2>
 <p>出力は8ビットに丸めるので、広がった光の裾の小さな値は0に落ちます。小さな明るい点では、落ちた分だけ出力の光の総量が素材より減ります。</p>
 <p>「ディザ」をオンにすると、丸める前の値に0以上1未満の値を足してから、小数を切り捨てます。足す値は画素の位置だけで決まるので、同じ設定ならフレームが変わってもちらつきません。小さな値は大きさに応じた確率で1として残るため、光の総量が保たれます。</p>
-<table class="g"><tr><td><figure><img src="assets/img/dither-off.png" alt="ディザなしの結果。明るい点の周りに、なだらかな薄い暈が、一定の範囲まで広がっている" width="340" height="291" loading="lazy" class="p"><figcaption>ディザなし。裾の小さな値は0に丸められて消えます。</figcaption></figure></td><td><figure><img src="assets/img/dither-on.png" alt="ディザありの結果。明るい点の周りに、薄い暈に加えて、遠くまで散らばった小さな点が出ている" width="340" height="291" loading="lazy" class="p"><figcaption>ディザあり。裾の小さな値が、まばらな点として残ります。</figcaption></figure></td></tr></table>
+<div class="g"><figure><img src="assets/img/dither-off.png" alt="ディザなしの結果。明るい点の周りに、なだらかな薄い暈が、一定の範囲まで広がっている" width="340" height="291" loading="lazy" class="p"><figcaption>ディザなし。裾の小さな値は0に丸められて消えます。</figcaption></figure><figure><img src="assets/img/dither-on.png" alt="ディザありの結果。明るい点の周りに、薄い暈に加えて、遠くまで散らばった小さな点が出ている" width="340" height="291" loading="lazy" class="p"><figcaption>ディザあり。裾の小さな値が、まばらな点として残ります。</figcaption></figure></div>
 <p>半径2.2画素の白い点を、F値16、画素ピッチ2μm、カーネル半径63画素で広げた結果の一部です。画素を4倍に拡大し、裾が見えるよう出力の値を16倍に明るくしています。<a href="https://github.com/routersys/YMM4-WaveOptics/blob/main/README.md#7-線形光とハイライトとディザ">READMEの測定</a>では、半径2画素の円の光の総和が、素材の91.1%からディザで100.2%になりました。</p>
 
 <h2 id="gpu">7. GPUとCPU</h2>

diff --git a/index.html b/index.html
@@ -45,8 +45,8 @@
 <p>広がり方は、開口の形、中央遮蔽、6種類の波面収差、波長、F値、画素ピッチの設定だけで決まります。履歴フレーム、参照画像、学習済みモデルは使わず、入力された1枚の映像だけを処理し、同じ機器で同じ経路なら、同じ素材と同じ設定から、いつも同じ結果になります。</p>
 
 <h2 id="images">画像</h2>
-<div class="c" data-b="素材" data-a="適用後"><figure class="b"><img src="assets/img/night-original.webp" alt="元の夜景。ビルの窓の明かりと、空に浮かぶ白い点、3本のネオン管が、くっきりした点や線で写っている" width="1600" height="900"><figcaption>素材</figcaption></figure><figure class="a"><img src="assets/img/recipe-spikes.webp" alt="適用後の夜景。白い点やビルの窓の明かりから6本の細い筋が星形に伸び、ネオン管の周りに蝶ネクタイの形のにじみが出ている" width="1600" height="900"><figcaption>適用後</figcaption></figure></div>
-<p>境目を左右に動かして、素材と適用後を見比べられます。素材は、合成した1920×1080の夜景から、中央の1600×900を切り出したものです。適用後の設定は、F値16、画素ピッチ2μm、カーネル半径63画素、6枚羽根の正多角形の開口で、線形光はオン、ハイライト強度は30倍です。設定の全体は<a href="recipes.html#spikes">作例のページ</a>にあります。</p>
+<div class="c" data-b="素材" data-a="適用後"><figure class="b"><img src="assets/img/night-original.webp" alt="元の写真。夜の川沿いに高層ビルが並び、手前の道路に街灯が点々と続いている。橋の上には、車の光跡が赤と白の帯になっている" width="1600" height="900"><figcaption>素材</figcaption></figure><figure class="a"><img src="assets/img/recipe-spikes.webp" alt="適用後の写真。街灯や窓の明かりから、6本の細い筋が星形に伸びている" width="1600" height="900"><figcaption>適用後</figcaption></figure></div>
+<p>境目を左右に動かして、素材と適用後を見比べられます。素材は、夜の川沿いの写真を1920×1080に切り出し、さらに中央の1600×900を載せたものです。写真の出典は<a href="trust.html#images">確かめ方のページ</a>にあります。適用後の設定は、F値16、画素ピッチ4μm、カーネル半径63画素、6枚羽根の正多角形の開口で、線形光はオン、ハイライト閾値は97%、ハイライト強度は25倍です。設定の全体は<a href="recipes.html#spikes">作例のページ</a>にあります。</p>
 
 <h2 id="features">主な機能</h2>
 <ul><li>開口は円形か正多角形を選びます。正多角形は羽根枚数と開口回転を指定でき、中央遮蔽も指定できます。</li><li>波面収差は、デフォーカス、縦横非点収差、斜め非点収差、水平コマ収差、垂直コマ収差、球面収差の6項目です。</li><li>線形光、ハイライト、ディザを使えます。光の強さに比例する値で畳み込み、頭打ちの光を持ち上げ、8ビットに丸めるときの光の損失を抑えます。</li><li>適用量、利得、ハイライトの2項目、波長、F値、画素ピッチ、開口回転、中央遮蔽、波面収差の6項目の、計15項目がアニメーションに対応しています。</li><li>畳み込みはGPUで計算し、計算し直したフレームごとに結果を検査します。検査で誤りを見つけたときと、GPUを使えないときは、CPUで計算します。</li><li>品質は高速、標準、高精度の3段階です。画面は8言語に対応しています。</li></ul>

diff --git a/trust.html b/trust.html
@@ -67,7 +67,7 @@
 <p>エフェクトを最初に生成したときに、新しい正式版が公開されているかを、YMM4の実行中に一度だけ確認します。更新情報を取得できないときは、通知せずにそのまま動作します。プレリリースは通知の対象外で、確認の通信に失敗しても、その失敗は報告しません。</p>
 
 <h2 id="images">5. このサイトの画像</h2>
-<ul><li>素材は、プログラムで描いた合成の画像で、写真ではありません。夜景と空は、2倍の大きさで描いてから1920×1080に縮小して、縁をなめらかにしています。</li><li>適用後の画像は、波動光学のCPUの経路の計算をそのまま呼び出して作りました。YMM4の画面を撮ったものではありません。GPUの経路との差は、測った範囲で最大2階調です。</li><li>表示のために、中央を切り出したり縮小したりしています。点像分布関数の画像は滑らかに拡大し、ディザの画像は画素のまま拡大して、見やすいよう16倍に明るくしています。それぞれの画像の下に書いたとおりです。</li><li>このサイトの数値は、READMEの数値と、プラグインのカーネルの計算を直接動かして測った値です。測った値は、ページに書いた条件のものです。</li></ul>
+<ul><li>作例の素材は、夜の川沿いの写真です。撮影者はDairui Chen（tallnut）、題名は「Guangzhou at night - 2017」で、<a href='https://commons.wikimedia.org/wiki/File:Guangzhou_at_night_-_2017.jpg'>Wikimedia Commons</a>のファイルです。元の公開先は<a href='https://unsplash.com/photos/ju5tx5zl_as'>Unsplash</a>で、2017年6月5日にUnsplashがライセンスを替える前の公開なので、CC0 1.0（パブリックドメインへの献呈）です。縮小して1920×1080に切り出し、波動光学を適用しました。</li><li>しくみのページの、市松模様、点像分布関数、ディザの画像は、検証用に計算で作った画像で、写真ではありません。</li><li>適用後の画像は、波動光学のCPUの経路の計算をそのまま呼び出して作りました。YMM4の画面を撮ったものではありません。GPUの経路との差は、測った範囲で最大2階調です。</li><li>表示のために、中央を切り出したり縮小したりしています。点像分布関数の画像は滑らかに拡大し、ディザの画像は画素のまま拡大して、見やすいよう16倍に明るくしています。それぞれの画像の下に書いたとおりです。</li><li>このサイトの数値は、READMEの数値と、プラグインのカーネルの計算を直接動かして測った値です。測った値は、ページに書いた条件のものです。</li></ul>
 
 <h2 id="limits">6. 測っていないこと</h2>
 <ul><li>計算時間の実測は、Intel Core i7-1360PのCPUとIntel Iris Xe GraphicsのGPUを持つ1台の環境で行いました。ほかの機器の値は測っていません。</li><li>YMM4の画面で表示や書き出しを行った結果の画像は、このサイトに載せていません。</li><li>光源の本当の明るさは素材に残っていないので、復元できません。ハイライトは光を足す処理です。</li><li>計算は単色光に限ります。白色光や、奥行きで変わるにじみは扱いません。</li></ul>

diff --git a/guide.html b/guide.html
@@ -40,7 +40,7 @@
 <p>目次</p><ul><li><a href="#start">1. 最初に試すこと</a></li><li><a href="#goal">2. やりたいことから探す</a></li><li><a href="#size">3. にじみの大きさ</a></li><li><a href="#defocus">4. デフォーカスとカーネル半径</a></li><li><a href="#heavy">5. 重いとき</a></li><li><a href="#motion">6. アニメーション</a></li><li><a href="#check">7. 書き出す前の確認</a></li></ul>
 
 <h2 id="start">1. 最初に試すこと</h2>
-<ol><li>映像エフェクトに「波動光学」を追加します。この時点では、映像がわずかにやわらぐだけです。</li><li>「F値」を16、「画素ピッチ」を2μmにします。にじみが大きくなります。</li><li>光条を出したいときは、「開口形状」を正多角形にします。「線形光」をオンにして、「ハイライト強度」を30倍に上げます。</li><li>玉ボケにしたいときは、「デフォーカス」の絶対値を上げます。「カーネル半径」もにじみに合わせて上げます。</li><li>明るさが合わないときは「利得」で合わせます。元の映像と混ぜたいときは「適用量」を下げます。</li></ol>
+<ol><li>映像エフェクトに「波動光学」を追加します。この時点では、映像がわずかにやわらぐだけです。</li><li>「F値」を16、「画素ピッチ」を2μmにします。にじみが大きくなります。</li><li>光条を出したいときは、「開口形状」を正多角形にします。「線形光」をオンにして、「ハイライト閾値」を97%に、「ハイライト強度」を25倍にします。</li><li>玉ボケにしたいときは、「デフォーカス」の絶対値を上げます。「カーネル半径」もにじみに合わせて上げます。</li><li>明るさが合わないときは「利得」で合わせます。元の映像と混ぜたいときは「適用量」を下げます。</li></ol>
 <p>具体的な設定値は<a href="recipes.html">作例</a>にあります。</p>
 
 <h2 id="goal">2. やりたいことから探す</h2>
